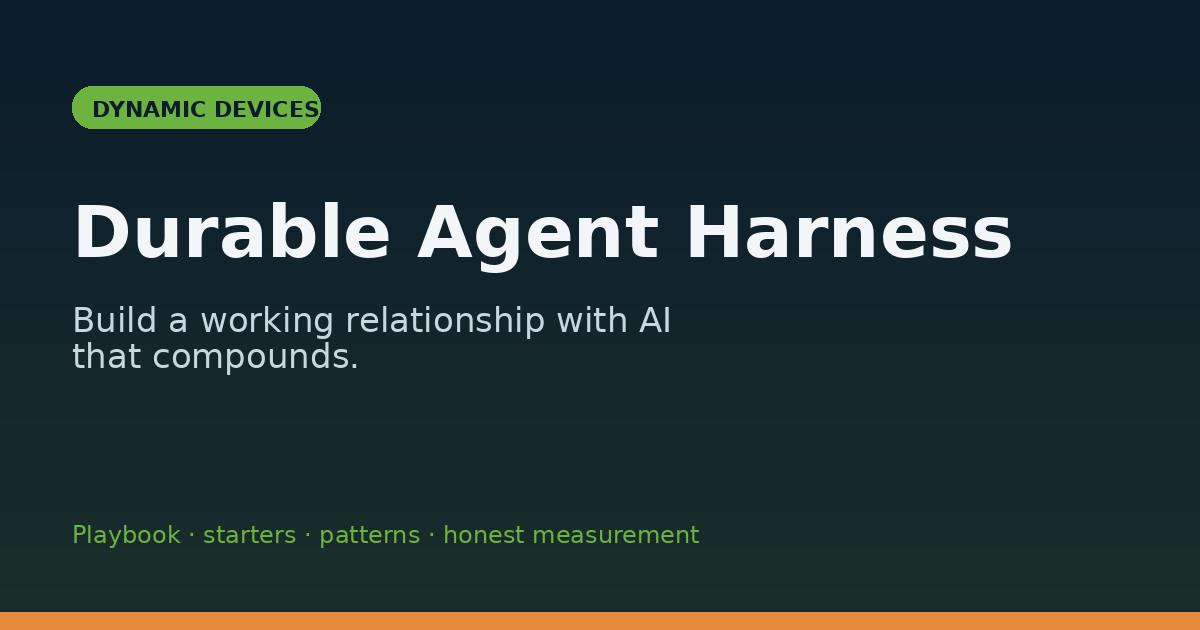
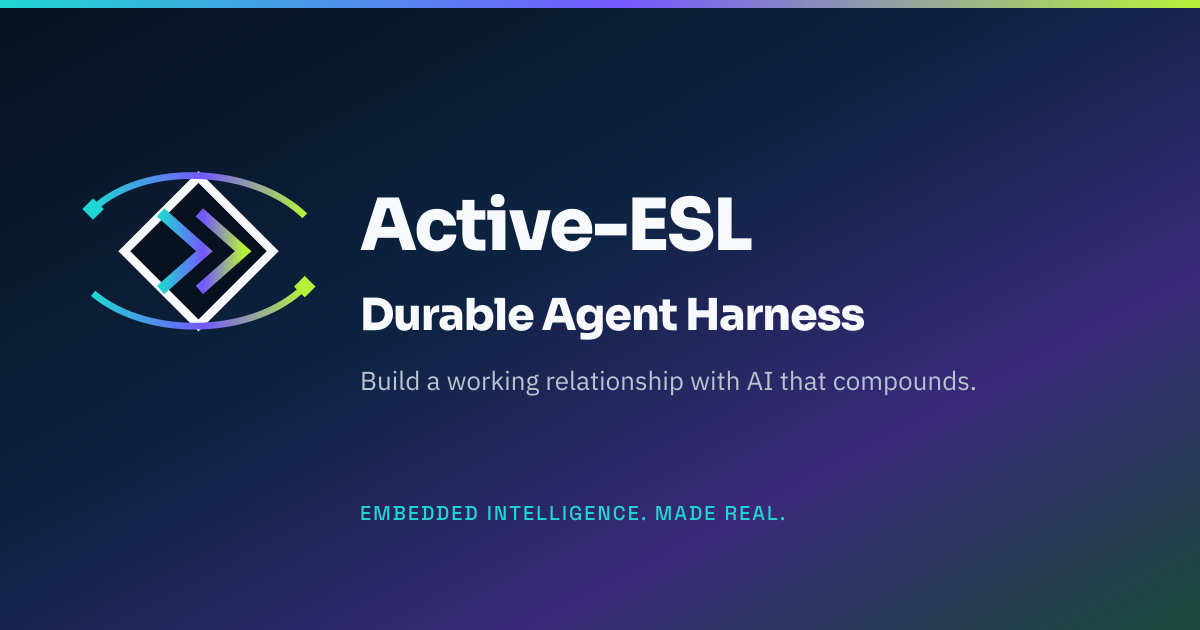
Rebrand the public notebook with Active-ESL identity.
Swap DD chrome for AESL edge mark, signal-aperture favicon, Carbon/Cyan/Violet/Lime tokens, and AESL hero/OG — keep Dynamic Devices as publisher credit only.

diff --git a/docs/index.html b/docs/index.html
@@ -3,12 +3,12 @@
 <head>
   <meta charset="utf-8" />
   <meta name="viewport" content="width=device-width, initial-scale=1" />
-  <title>Durable Agent Harness — Dynamic Devices</title>
-  <meta name="description" content="Public engineering notebook on building a durable AI agent harness: MemPalace, Kaizen→Hansei→TWP, Preloop, OpenRouter, WhatsApp/Briar channels, token-lean skills, playbook, and honest measurement — from Dynamic Devices." />
-  <meta name="keywords" content="AI agents, agent harness, MemPalace, Preloop, OpenRouter, Briar, WhatsApp, token lean, Kaizen, Hansei, Toyota Way Practices, TWP, Cursor, developer tools, AI engineering, agent skills, working patterns, LLM productivity, Dynamic Devices" />
-  <meta name="author" content="Dynamic Devices Ltd" />
+  <title>Durable Agent Harness — Active-ESL</title>
+  <meta name="description" content="Public engineering notebook on building a durable AI agent harness: MemPalace, Kaizen→Hansei→TWP, Preloop, OpenRouter, WhatsApp/Briar channels, token-lean skills, playbook, and honest measurement — from Active-ESL." />
+  <meta name="keywords" content="AI agents, agent harness, MemPalace, Preloop, OpenRouter, Briar, WhatsApp, token lean, Kaizen, Hansei, Toyota Way Practices, TWP, Cursor, developer tools, AI engineering, agent skills, working patterns, LLM productivity, Active-ESL" />
+  <meta name="author" content="Active-ESL" />
   <meta name="robots" content="index,follow,max-image-preview:large,max-snippet:-1,max-video-preview:-1" />
-  <meta name="theme-color" content="#0B1C2C" />
+  <meta name="theme-color" content="#07111F" />
   <meta name="color-scheme" content="light" />
   <link rel="canonical" href="https://dynamicdevices.github.io/durable-agent-harness/" />
 
@@ -17,23 +17,23 @@
   <meta property="og:site_name" content="Durable Agent Harness" />
   <meta property="og:locale" content="en_GB" />
   <meta property="og:url" content="https://dynamicdevices.github.io/durable-agent-harness/" />
-  <meta property="og:title" content="Durable Agent Harness — Dynamic Devices" />
+  <meta property="og:title" content="Durable Agent Harness — Active-ESL" />
   <meta property="og:description" content="Build a working relationship with AI that compounds. MemPalace, Kaizen→Hansei→TWP, channels, token lean, playbook, starters." />
   <meta property="og:image" content="https://dynamicdevices.github.io/durable-agent-harness/assets/og-cover.png" />
   <meta property="og:image:type" content="image/png" />
   <meta property="og:image:width" content="1200" />
   <meta property="og:image:height" content="630" />
-  <meta property="og:image:alt" content="Durable Agent Harness — Dynamic Devices public engineering notebook" />
+  <meta property="og:image:alt" content="Durable Agent Harness — Active-ESL public engineering notebook" />
 
   <!-- Twitter / X -->
   <meta name="twitter:card" content="summary_large_image" />
-  <meta name="twitter:title" content="Durable Agent Harness — Dynamic Devices" />
+  <meta name="twitter:title" content="Durable Agent Harness — Active-ESL" />
   <meta name="twitter:description" content="Build a working relationship with AI that compounds. MemPalace, channels, token lean, playbook, starters." />
   <meta name="twitter:image" content="https://dynamicdevices.github.io/durable-agent-harness/assets/og-cover.png" />
   <meta name="twitter:image:alt" content="Durable Agent Harness cover" />
 
   <link rel="manifest" href="site.webmanifest" />
-  <link rel="icon" href="assets/symbol-box.svg" type="image/svg+xml" />
+  <link rel="icon" href="assets/signal-aperture.svg" type="image/svg+xml" />
   <link rel="apple-touch-icon" href="assets/og-cover.png" />
   <link rel="sitemap" type="application/xml" title="Sitemap" href="sitemap.xml" />
 
@@ -52,14 +52,14 @@
         "url": "https://dynamicdevices.github.io/durable-agent-harness/",
         "name": "Durable Agent Harness",
         "description": "Public engineering notebook on building a durable harness around AI coding agents.",
-        "publisher": { "@id": "https://www.dynamicdevices.co.uk/#organization" },
+        "publisher": { "@id": "https://www.active-esl.com/#organization" },
         "inLanguage": "en-GB"
       },
       {
         "@type": "WebPage",
         "@id": "https://dynamicdevices.github.io/durable-agent-harness/#webpage",
         "url": "https://dynamicdevices.github.io/durable-agent-harness/",
-        "name": "Durable Agent Harness — Dynamic Devices",
+        "name": "Durable Agent Harness — Active-ESL",
         "isPartOf": { "@id": "https://dynamicdevices.github.io/durable-agent-harness/#website" },
         "about": { "@id": "https://dynamicdevices.github.io/durable-agent-harness/#techarticle" },
         "description": "Playbook, starter templates, patterns, capability maps, and honest measurement for AI agent engineering.",
@@ -77,8 +77,8 @@
         "headline": "Durable Agent Harness",
         "alternativeHeadline": "Build a working relationship with AI that compounds",
         "description": "Skills, rules, MemPalace memory, Kaizen→Hansei→TWP, channels, token lean, patterns, and human gates around AI coding agents.",
-        "author": { "@id": "https://www.dynamicdevices.co.uk/#organization" },
-        "publisher": { "@id": "https://www.dynamicdevices.co.uk/#organization" },
+        "author": { "@id": "https://www.active-esl.com/#organization" },
+        "publisher": { "@id": "https://www.active-esl.com/#organization" },
         "datePublished": "2026-08-08",
         "dateModified": "2026-08-09",
         "image": "https://dynamicdevices.github.io/durable-agent-harness/assets/og-cover.png",
@@ -99,16 +99,19 @@
           "working patterns",
           "WhatsApp",
           "Briar",
-          "token lean"
+          "token lean",
+          "Active-ESL"
         ],
         "license": "https://github.com/DynamicDevices/durable-agent-harness/blob/main/LICENSE"
       },
       {
         "@type": "Organization",
-        "@id": "https://www.dynamicdevices.co.uk/#organization",
-        "name": "Dynamic Devices Ltd",
-        "url": "https://www.dynamicdevices.co.uk/",
-        "logo": "https://dynamicdevices.github.io/durable-agent-harness/assets/symbol-box.svg"
+        "@id": "https://www.active-esl.com/#organization",
+        "name": "Active-ESL",
+        "legalName": "Active Edge Solutions Limited",
+        "url": "https://www.active-esl.com/",
+        "logo": "https://dynamicdevices.github.io/durable-agent-harness/assets/active-esl-edge-symbol-light.svg",
+        "slogan": "Embedded intelligence. Made real."
       },
       {
         "@type": "SoftwareSourceCode",
@@ -119,7 +122,7 @@
         "programmingLanguage": ["HTML", "JavaScript", "CSS"],
         "runtimePlatform": "GitHub Pages",
         "license": "https://opensource.org/licenses/MIT",
-        "creator": { "@id": "https://www.dynamicdevices.co.uk/#organization" }
+        "creator": { "@id": "https://www.active-esl.com/#organization" }
       }
     ]
   }
@@ -129,11 +132,11 @@
   <a class="skip" href="#main">Skip to content</a>
 
   <header class="top">
-    <a class="brand" href="#top" aria-label="Durable Agent Harness home">
-      <img src="assets/symbol-box.svg" alt="" width="36" height="36" />
+    <a class="brand" href="#top" aria-label="Active-ESL Durable Agent Harness home">
+      <img src="assets/active-esl-edge-symbol-light.svg" alt="" width="40" height="32" />
       <span class="brand-text">
         <strong>Durable Agent Harness</strong>
-        <em>Dynamic Devices</em>
+        <em>Active-ESL</em>
       </span>
     </a>
     <nav class="nav" aria-label="Primary">
@@ -154,9 +157,9 @@
     <section class="hero" id="top" data-testid="hero" aria-labelledby="hero-headline">
       <div class="hero-bg" aria-hidden="true"></div>
       <div class="hero-inner">
-        <p class="hero-brand" data-testid="brand">Durable Agent Harness</p>
-        <h1 id="hero-headline">Build a working relationship with AI that compounds.</h1>
-        <p class="lede">MemPalace, Kaizen → Hansei → TWP, Preloop, OpenRouter, WhatsApp channels, token lean, playbook, starters — a public engineering notebook.</p>
+        <p class="hero-brand" data-testid="brand">Active-ESL</p>
+        <h1 id="hero-headline">Durable Agent Harness</h1>
+        <p class="lede">Build a working relationship with AI that compounds — MemPalace, Kaizen → Hansei → TWP, channels, token lean, playbook, and starters.</p>
         <div class="cta-row">
           <a class="btn primary" href="#start" data-testid="cta-start">Start here</a>
           <a class="btn ghost" href="#explore" data-testid="cta-explore">Explore the journey</a>
@@ -172,7 +175,7 @@
           <a class="path-card" href="#playbook">
             <span class="path-kicker">Do</span>
             <strong>Playbook</strong>
-            <span>Eight steps to build a thin harness from scratch.</span>
+            <span>Twelve steps to build a thin harness from scratch.</span>
           </a>
           <a class="path-card" href="#starters">
             <span class="path-kicker">Copy</span>
@@ -372,9 +375,10 @@
     <section class="privacy" id="privacy" data-testid="section-privacy" aria-labelledby="privacy-title">
       <div class="wrap">
         <h2 id="privacy-title">About this notebook</h2>
-        <p class="section-lede">Engineering education from Dynamic Devices — clocks, playbook, patterns, cases, and starter templates you can reuse.</p>
+        <p class="section-lede">Engineering education from Active-ESL — clocks, playbook, patterns, cases, and starter templates you can reuse.</p>
         <p><a class="text-link" href="https://github.com/DynamicDevices/durable-agent-harness">GitHub</a>
-          · <a class="text-link" href="https://github.com/DynamicDevices/durable-agent-harness/blob/main/PRIVACY.md">Contribution notes</a></p>
+          · <a class="text-link" href="https://www.active-esl.com/">Active-ESL</a>
+          · <a class="text-link" href="https://www.dynamicdevices.co.uk/">Dynamic Devices</a></p>
       </div>
     </section>
   </main>
@@ -383,9 +387,9 @@
     <div class="wrap footer-inner">
       <div>
         <strong>Durable Agent Harness</strong>
-        <p>Published by Dynamic Devices Ltd · engineering education</p>
+        <p>Active-ESL · with Dynamic Devices Ltd</p>
       </div>
-      <p class="tagline-foot">Connected intelligence, engineered.</p>
+      <p class="tagline-foot">Embedded intelligence. Made real.</p>
     </div>
   </footer>
 

diff --git a/docs/styles.css b/docs/styles.css
@@ -1,19 +1,26 @@
 :root {
-  --navy: #0b1c2c;
-  --navy-deep: #07131e;
-  --green: #6db33f;
-  --copper: #e88a3c;
-  --mist: #f3f6f9;
+  --carbon: #07111f;
+  --carbon-deep: #040a12;
+  --cyan: #20d6d2;
+  --violet: #7557ff;
+  --lime: #b6f23b;
+  --cloud: #f7f9fc;
+  --mist: #eef2f7;
   --graphite: #5a6b78;
-  --ink: #142433;
+  --ink: #0e1a28;
   --card: #ffffff;
-  --line: rgba(11, 28, 44, 0.12);
-  --shadow: 0 18px 50px rgba(11, 28, 44, 0.12);
+  --line: rgba(7, 17, 31, 0.12);
+  --shadow: 0 18px 50px rgba(7, 17, 31, 0.14);
   --radius: 18px;
   --font-display: "Sora", system-ui, sans-serif;
   --font-label: "Space Grotesk", system-ui, sans-serif;
   --font-body: "IBM Plex Sans", system-ui, sans-serif;
   --wrap: min(1120px, calc(100% - 2.5rem));
+  /* aliases for gradual migration */
+  --navy: var(--carbon);
+  --navy-deep: var(--carbon-deep);
+  --green: var(--lime);
+  --copper: var(--violet);
 }
 
 *,
@@ -30,9 +37,10 @@ body {
   margin: 0;
   color: var(--ink);
   background:
-    radial-gradient(1200px 600px at 10% -10%, rgba(109, 179, 63, 0.12), transparent 55%),
-    radial-gradient(900px 500px at 100% 0%, rgba(232, 138, 60, 0.1), transparent 50%),
-    linear-gradient(180deg, #eef3f7 0%, var(--mist) 40%, #e8eef4 100%);
+    radial-gradient(1200px 600px at 8% -12%, rgba(32, 214, 210, 0.14), transparent 55%),
+    radial-gradient(900px 500px at 100% 0%, rgba(117, 87, 255, 0.12), transparent 50%),
+    radial-gradient(700px 400px at 70% 20%, rgba(182, 242, 59, 0.08), transparent 45%),
+    linear-gradient(180deg, var(--cloud) 0%, var(--mist) 45%, #e6ecf4 100%);
   font-family: var(--font-body);
   line-height: 1.55;
   text-rendering: optimizeLegibility;
@@ -76,7 +84,7 @@ a {
   justify-content: space-between;
   gap: 1rem;
   padding: 0.85rem 1.25rem;
-  background: rgba(243, 246, 249, 0.86);
+  background: rgba(247, 249, 252, 0.88);
   backdrop-filter: blur(12px);
   border-bottom: 1px solid var(--line);
 }
@@ -89,8 +97,8 @@ a {
 }
 
 .brand img {
-  width: 36px;
-  height: 36px;
+  width: 44px;
+  height: 35px;
 }
 
 .brand-text {
@@ -146,8 +154,17 @@ a {
   position: absolute;
   inset: 0;
   background:
-    linear-gradient(120deg, rgba(7, 19, 30, 0.15), rgba(7, 19, 30, 0.55)),
-    linear-gradient(160deg, var(--navy-deep) 0%, #12324a 42%, #1b4a2a 78%, #5a3a1c 100%);
+    linear-gradient(120deg, rgba(7, 17, 31, 0.2), rgba(7, 17, 31, 0.65)),
+    linear-gradient(
+      135deg,
+      var(--carbon) 0%,
+      #0a2a3a 28%,
+      #2a1f6a 58%,
+      #1a4030 82%,
+      #123028 100%
+    ),
+    linear-gradient(90deg, rgba(32, 214, 210, 0.35), rgba(117, 87, 255, 0.35), rgba(182, 242, 59, 0.28));
+  background-blend-mode: normal, normal, soft-light;
   animation: hero-drift 18s ease-in-out infinite alternate;
 }
 
@@ -223,8 +240,8 @@ a {
 }
 
 .btn.primary {
-  background: var(--green);
-  color: var(--navy-deep);
+  background: var(--lime);
+  color: var(--carbon);
 }
 
 .btn.ghost {
@@ -363,7 +380,7 @@ section h2 {
   list-style: none;
   margin: 0;
   padding: 0;
-  border-left: 2px solid rgba(109, 179, 63, 0.45);
+  border-left: 2px solid rgba(32, 214, 210, 0.55);
 }
 
 .timeline li {
@@ -382,8 +399,8 @@ section h2 {
   width: 12px;
   height: 12px;
   border-radius: 50%;
-  background: var(--copper);
-  box-shadow: 0 0 0 4px rgba(232, 138, 60, 0.18);
+  background: var(--violet);
+  box-shadow: 0 0 0 4px rgba(117, 87, 255, 0.22);
 }
 
 .timeline time {
@@ -453,8 +470,8 @@ section h2 {
 }
 
 .pill.now {
-  background: rgba(109, 179, 63, 0.18);
-  color: #244816;
+  background: rgba(182, 242, 59, 0.28);
+  color: #1a3a12;
 }
 
 .callout {
@@ -519,11 +536,11 @@ section h2 {
 .loop-line {
   margin: -0.5rem 0 1.5rem;
   padding: 0.9rem 1.1rem;
-  border-left: 4px solid var(--green);
-  background: rgba(109, 179, 63, 0.1);
+  border-left: 4px solid var(--cyan);
+  background: rgba(32, 214, 210, 0.12);
   border-radius: 0 14px 14px 0;
   font-family: var(--font-label);
-  color: var(--navy);
+  color: var(--carbon);
 }
 
 .two-col {
@@ -781,8 +798,8 @@ section h2 {
   margin: 0;
   padding: 1rem 1.2rem 1.25rem;
   overflow: auto;
-  background: #0f1c28;
-  color: #e7eef5;
+  background: var(--carbon);
+  color: var(--cloud);
   font-size: 0.86rem;
   line-height: 1.45;
   max-height: 22rem;

diff --git a/tests/smoke.spec.js b/tests/smoke.spec.js
@@ -5,11 +5,13 @@ test.describe("Durable Agent Harness site", () => {
     await page.goto("/");
     await expect(page.locator("body")).toHaveAttribute("data-ready", "true", { timeout: 20000 });
     await expect(page.getByTestId("brand")).toBeVisible();
+    await expect(page.getByTestId("hero")).toContainText("Active-ESL");
     await expect(page.getByTestId("hero")).toContainText("Durable Agent Harness");
     const brand = page.locator(".hero-brand");
     const brandSize = await brand.evaluate((el) => parseFloat(getComputedStyle(el).fontSize));
     const h1Size = await page.locator(".hero h1").evaluate((el) => parseFloat(getComputedStyle(el).fontSize));
     expect(brandSize).toBeGreaterThan(h1Size);
+    await expect(brand).toHaveText("Active-ESL");
 
     await page.getByTestId("cta-explore").click();
     await expect(page.getByTestId("section-explore")).toBeInViewport();
@@ -103,7 +105,8 @@ test.describe("Durable Agent Harness site", () => {
     );
     const ld = await page.locator('script[type="application/ld+json"]').textContent();
     expect(ld).toContain("TechArticle");
-    expect(ld).toContain("Dynamic Devices Ltd");
+    expect(ld).toContain("Active-ESL");
+    expect(ld).toContain("Active Edge Solutions Limited");
   });
 });
 

diff --git a/README.md b/README.md
@@ -1,6 +1,6 @@
 # Durable Agent Harness
 
-**Public engineering notebook** from [Dynamic Devices](https://www.dynamicdevices.co.uk/) on building a *durable working relationship* with AI coding agents.
+**Public engineering notebook** from [Active-ESL](https://www.active-esl.com/) on building a *durable working relationship* with AI coding agents. Published with [Dynamic Devices](https://www.dynamicdevices.co.uk/).
 
 🌐 **Site:** <https://dynamicdevices.github.io/durable-agent-harness/>  
 📦 **Repo:** <https://github.com/DynamicDevices/durable-agent-harness>
@@ -46,4 +46,4 @@ MIT — see [LICENSE](LICENSE).
 
 ---
 
-*Site and materials were AI-assisted (Cursor) under human direction at Dynamic Devices.*
+*Site and materials were AI-assisted (Cursor) under human direction at Active-ESL / Dynamic Devices.*

diff --git a/PRIVACY.md b/PRIVACY.md
@@ -35,5 +35,5 @@ sensitive strings). Maintainers keep it in a private local path and can point
 
 ## Controllers / contact
 
-Published by **Dynamic Devices Ltd** as engineering education material.  
+Published by **Active-ESL** (Active Edge Solutions Limited), with Dynamic Devices Ltd.  
 Questions: `ajlennon@dynamicdevices.co.uk` (work mailbox).
